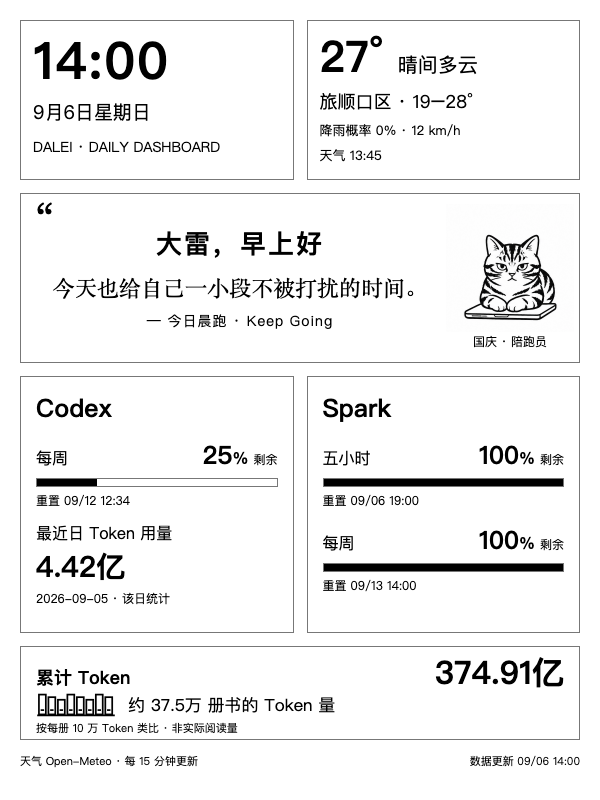
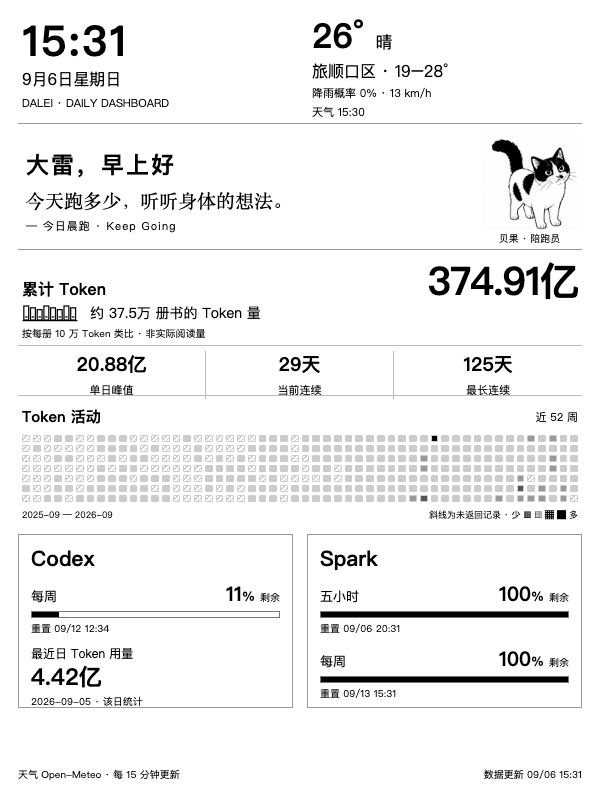
feat: add token activity heatmap and profile-inspired Kindle layout

diff --git a/backend/codex-page.js b/backend/codex-page.js
@@ -1,6 +1,7 @@
 // Server-rendered small-screen view: the screenshot never races an API fetch.
 const { readAccountData } = require('./collectors/codex');
 const labels = require('../locales/zh-CN.json').compact;
+const activity = require('../locales/zh-CN.json').activity;
 const morning = require('../locales/zh-CN.json').morning;
 const weather = require('./weather');
 const escape = value => String(value).replace(/[&<>"']/g, c => ({'&':'&amp;','<':'&lt;','>':'&gt;','"':'&quot;',"'":'&#39;'}[c]));
@@ -58,6 +59,23 @@ function weatherHtml(w) {
   if(w.unavailable) return `<strong class="temp">—°</strong><div>${escape(w.location)}</div><small>${escape(morning.unavailable)}</small>`;
   return `<strong class="temp">${n(w.temperature)}° <span>${escape(morning.conditions[String(w.code)] || morning.weather)}</span></strong><div>${escape(w.location)} · ${n(w.low)}–${n(w.high)}°</div><small>${morning.rain} ${n(w.rain)}% · ${n(w.wind)} km/h</small><small>${escape(w.stale?morning.stale:morning.weather)} ${escape(w.observedAt?.slice(11,16)||'—')}</small>`;
 }
+function activityHtml(usage, now) {
+  const summary=usage?.summary || {};
+  const valid=Array.isArray(usage?.dailyUsageBuckets)?usage.dailyUsageBuckets:[];
+  const days=new Map(valid.filter(b=>/^\d{4}-\d{2}-\d{2}$/.test(b?.startDate||'') && Number.isFinite(b.tokens) && b.tokens>=0).map(b=>[b.startDate,b.tokens]));
+  const today=new Date(now+8*3600000).toISOString().slice(0,10);
+  const end=Date.parse(today+'T00:00:00Z');
+  const start=end-363*86400000;
+  const peak=Math.max(1,...Array.from(days.values()));
+  const cells=Array.from({length:364},(_,i)=>{
+    const day=new Date(start+i*86400000).toISOString().slice(0,10);
+    const n=days.get(day);
+    const level=n===undefined?-1:n===0?0:Math.min(4,Math.max(1,Math.ceil(n/peak*4)));
+    return `<i class="heat-cell level-${level}" title="${day}: ${n===undefined?'—':n}" data-day="${day}"></i>`;
+  }).join('');
+  const metric=(name,n,suffix='')=>`<div><strong>${Number.isFinite(n)&&n>=0?escape(suffix?String(n)+suffix:tokenScale(n).total):'—'}</strong><span>${escape(name)}</span></div>`;
+  return `<div class="activity-stats">${metric(activity.peak,summary.peakDailyTokens)}${metric(activity.streak,summary.currentStreakDays,activity.days)}${metric(activity.record,summary.longestStreakDays,activity.days)}</div><div class="activity-panel"><div class="activity-head"><b>${escape(activity.title)}</b><span>${escape(activity.range)}</span></div><div class="heat-grid">${cells}</div><div class="heat-foot"><span>${new Date(start).toISOString().slice(0,7)} — ${today.slice(0,7)}</span><span>${escape(activity.missing)} · ${escape(activity.less)} <b>░ ▒ ▓ █</b> ${escape(activity.more)}</span></div></div>`;
+}
 function htmlFor(data, updatedAt, stale=false, now=Date.now(), w={missing:true}) {
   const buckets=data?.rateLimitsByLimitId || {};
   const main=buckets.codex || data?.rateLimits;
@@ -67,7 +85,9 @@ function htmlFor(data, updatedAt, stale=false, now=Date.now(), w={missing:true})
   const time=new Date(now).toLocaleTimeString('en-GB',{timeZone:'Asia/Shanghai',hour:'2-digit',minute:'2-digit',hour12:false});
   return `<!doctype html><html lang="zh-CN"><meta charset="utf-8"><style>
 *{box-sizing:border-box}html,body{margin:0;width:600px;height:800px;overflow:hidden;background:white;color:#000;font-family:"PingFang SC",sans-serif}body{padding:20px;display:flex;flex-direction:column;gap:13px}.top{display:grid;grid-template-columns:1fr 1fr;gap:13px;height:160px}.box{min-height:0;border:1px solid #777;padding:16px}.top .box{padding:12px}.clock strong{display:block;font-size:51px;line-height:1.1;letter-spacing:2px;font-variant-numeric:tabular-nums}.clock div{font-size:19px;margin-top:10px}.clock small{font-size:14px;display:block;margin-top:12px}.temp{display:block;font-size:43px;line-height:1.1;margin-bottom:9px}.temp span{font-size:20px;font-weight:400}.weather div{font-size:18px}.weather small{display:block;font-size:13px;margin-top:7px}.quote{height:170px;position:relative;text-align:center;display:flex;flex-direction:column;align-items:center;justify-content:center;padding:12px 139px 12px 19px}.quote:before{content:'“';position:absolute;left:15px;top:2px;font-family:Georgia,serif;font-size:43px}.pet-wrap{position:absolute;right:5px;top:10px;width:128px;text-align:center}.pet{width:128px;height:128px;background-image:url(/assets/guoqing-sprites.png);background-size:300% 200%;background-repeat:no-repeat}.pet-wrap span{font-size:12px;display:block;margin-top:1px}.quote h1{font-size:26px;margin:0 0 10px;letter-spacing:2px}.quote p{font-family:"Songti SC",serif;font-size:22px;line-height:1.4;margin:0;max-width:475px}.quote small{display:block;font-size:14px;letter-spacing:1px;margin-top:8px}.quotas{display:grid;grid-template-columns:1fr 1fr;gap:13px;height:257px}.quotas .box{padding:13px 15px}.quotas h2{font-size:25px;margin:0 0 11px}.quota-top{display:flex;align-items:baseline;justify-content:space-between}.quota-top b{font-size:16px;font-weight:400}.quota-top strong{font-size:25px}.quota-top small{font-size:16px}.quota-top span{font-size:12px;font-weight:400;margin-left:5px}.bar{height:9px;border:1px solid #777;margin:5px 0}.bar i{display:block;background:#000;height:100%}.reset{font-size:12px;white-space:nowrap}section{margin-bottom:13px}.daily{font-size:16px}.daily strong{display:block;font-size:29px;line-height:1.3;margin:4px 0}.tokens{height:94px;padding:8px 15px}.token-head{display:flex;align-items:baseline;justify-content:space-between}.token-head b{font-size:18px}.token-head strong{font-size:32px;line-height:1.1}.token-analogy{display:flex;align-items:center;gap:12px;margin-top:2px}.token-analogy svg{width:80px;height:25px}.token-analogy span{font-size:17px}.tokens small{display:block;font-size:11px;margin-top:3px}footer{font-size:11px;display:flex;justify-content:space-between;line-height:1.6}
-</style><div class="top"><div class="box clock"><strong>${time}</strong><div>${escape(date)}</div><small>DALEI · DAILY DASHBOARD</small></div><div class="box weather">${weatherHtml(w)}</div></div><div class="box quote"><h1>${escape(morning.greeting)}</h1><p>${escape(dailyQuote(now))}</p><small>— ${escape(morning.runTitle)}</small>${petSvg(now)}</div><div class="quotas"><div class="box"><h2>Codex</h2>${card(morning.week,windowOf(main,10080),now)}${dailyUsageCard(data?.usage)}</div><div class="box"><h2>Spark</h2>${card(morning.five,windowOf(spark,300),now)}${card(morning.week,windowOf(spark,10080),now)}</div></div>${tokenHtml(tokens)}<footer><span>${escape(morning.source)}</span><span>${escape(stale?labels.stale:labels.live)} ${updatedAt?clock(updatedAt):'—'}</span></footer></html>`;
+/* Profile-inspired e-ink layout; fixed sections sum to the 800px viewport. */
+body{padding:18px;gap:10px}.top{height:106px;flex-shrink:0;gap:16px;border-bottom:1px solid #999}.top .box{border:0;padding:0 4px}.clock strong{font-size:42px}.clock div{font-size:16px;margin-top:4px}.clock small{font-size:11px;margin-top:5px}.temp{font-size:34px;margin-bottom:5px}.temp span{font-size:17px}.weather div{font-size:16px}.weather small{font-size:11px;margin-top:3px}.quote{height:116px;flex-shrink:0;border:0;border-bottom:1px solid #999;padding:8px 124px 8px 8px;text-align:left;align-items:flex-start}.quote:before{display:none}.quote h1{font-size:23px;margin-bottom:6px}.quote p{font-size:19px;line-height:1.4}.quote small{font-size:11px;margin-top:5px}.pet-wrap{top:0;right:0;width:105px}.pet{width:96px;height:96px;margin:auto}.pet-wrap span{font-size:10px}.tokens{height:75px;flex-shrink:0;border:0;padding:0 4px}.token-head b{font-size:16px}.token-head strong{font-size:39px;letter-spacing:-1px}.token-analogy{margin-top:0}.token-analogy svg{width:56px;height:20px}.token-analogy span{font-size:14px}.tokens small{font-size:10px}.activity-stats{display:grid;grid-template-columns:repeat(3,1fr);height:51px;flex-shrink:0;border-top:1px solid #bbb;border-bottom:1px solid #bbb;padding:5px 0}.activity-stats div{text-align:center;border-right:1px solid #bbb}.activity-stats div:last-child{border:0}.activity-stats strong{display:block;font-size:19px}.activity-stats span{font-size:11px}.activity-panel{height:118px;flex-shrink:0;padding:0 4px}.activity-head,.heat-foot{display:flex;justify-content:space-between;align-items:center}.activity-head{font-size:15px;margin:0 0 8px}.activity-head span{font-size:11px}.heat-grid{display:grid;grid-template-rows:repeat(7,7px);grid-auto-flow:column;grid-template-columns:repeat(52,1fr);gap:3px}.heat-cell{display:block;border:1px solid #ccc;border-radius:1px}.level--1{background:repeating-linear-gradient(135deg,#fff 0px,#fff 2px,#ccc 2px,#ccc 3px)}.level-0{background:white}.level-1{background:#ccc}.level-2{background:#999}.level-3{background:#555}.level-4{background:#000}.heat-foot{font-size:9px;margin-top:6px}.quotas{height:174px;flex-shrink:0;gap:14px}.quotas .box{border-color:#999;padding:9px 12px}.quotas h2{font-size:21px;margin-bottom:7px}.quota-top b{font-size:13px}.quota-top strong{font-size:20px}.quota-top span{font-size:10px}.quota-top small{font-size:13px}.reset{font-size:10px}.bar{height:7px;margin:3px 0}section{margin-bottom:10px}.daily{font-size:12px}.daily strong{font-size:23px;margin:1px 0}footer{font-size:10px;margin-top:auto}
+</style><div class="top"><div class="box clock"><strong>${time}</strong><div>${escape(date)}</div><small>DALEI · DAILY DASHBOARD</small></div><div class="box weather">${weatherHtml(w)}</div></div><div class="box quote"><h1>${escape(morning.greeting)}</h1><p>${escape(dailyQuote(now))}</p><small>— ${escape(morning.runTitle)}</small>${petSvg(now)}</div>${tokenHtml(tokens)}${activityHtml(data?.usage,now)}<div class="quotas"><div class="box"><h2>Codex</h2>${card(morning.week,windowOf(main,10080),now)}${dailyUsageCard(data?.usage)}</div><div class="box"><h2>Spark</h2>${card(morning.five,windowOf(spark,300),now)}${card(morning.week,windowOf(spark,10080),now)}</div></div><footer><span>${escape(morning.source)}</span><span>${escape(stale?labels.stale:labels.live)} ${updatedAt?clock(updatedAt):'—'}</span></footer></html>`;
 }
 async function readCodex() {
   if (last && Date.now()-last.at<45000) return {...last,stale:false};
@@ -78,4 +98,4 @@ async function renderPage() {
   const [codex,w]=await Promise.all([readCodex(),weather.collect()]);
   return htmlFor(codex.data,codex.at,codex.stale,Date.now(),w);
 }
-module.exports={renderPage,htmlFor,remaining,windowOf,dailyQuote,weatherHtml,latestDaily,petSvg,tokenScale};
+module.exports={activityHtml,renderPage,htmlFor,remaining,windowOf,dailyQuote,weatherHtml,latestDaily,petSvg,tokenScale};

diff --git a/test/activity.test.js b/test/activity.test.js
@@ -1,0 +1,11 @@
+const test=require('node:test');
+const assert=require('node:assert/strict');
+const {activityHtml}=require('../backend/codex-page');
+test('activity distinguishes missing days, real zero and peak usage over 52 weeks',()=>{
+ const html=activityHtml({summary:{currentStreakDays:0},dailyUsageBuckets:[{startDate:'2026-09-05',tokens:0},{startDate:'2026-09-06',tokens:100},{startDate:'2026-09-04',tokens:-1}]},Date.parse('2026-09-06T04:00:00Z'));
+ assert.equal((html.match(/data-day=/g)||[]).length,364);
+ assert.match(html,/class="heat-cell level-0" title="2026-09-05: 0"/);
+ assert.match(html,/class="heat-cell level-4" title="2026-09-06: 100"/);
+ assert.match(html,/class="heat-cell level--1" title="2026-09-04: —"/);
+ assert.match(html,/>0天</);
+});

diff --git a/README.md b/README.md
@@ -22,6 +22,8 @@
 
 ## 已经回到桌面上了
 
+以下两张为上一版布局的实拍；新版统计布局见下方「一眼看见今天」。
+
 <div align="center">
 <img src="https://raw.githubusercontent.com/paul010/kindledalei2025/main/docs/images/kindle-in-use.jpg?v=privacy1" width="520" alt="Kindle 第八代实机照片：显示旅顺口天气、国庆猫咪、晨跑鼓励及 Codex 用量" />
 </div>
@@ -39,7 +41,7 @@
 ## 一眼看见今天
 
 <div align="center">
-<img src="https://raw.githubusercontent.com/paul010/kindledalei2025/main/docs/images/dashboard.png?v=privacy1" width="420" alt="大雷的 Kindle 看板：时间、旅顺天气、晨跑鼓励、猫咪、Codex 和 Spark 额度，以及累计 Token 类比" />
+<img src="https://raw.githubusercontent.com/paul010/kindledalei2025/main/docs/images/dashboard.png?v=activity-v2" width="420" alt="大雷的 Kindle 看板：时间、旅顺天气、晨跑鼓励、猫咪、Codex 和 Spark 额度，以及累计 Token 类比" />
 </div>
 
 > 上图为实际运行程序生成的 **600 × 800 PNG**，不是设备实拍，也不是概念稿。截图中的天气和用量是抓取时的快照，不代表此刻的数据。
@@ -51,7 +53,8 @@
 | 中间 | 「大雷，早上好」和晨跑鼓励 | 每 5 分钟轮换一句 |
 | 文案右侧 | 三只猫的专属黑白造型 | 每分钟轮换，下一次出场更换动作 |
 | 下方两张卡片 | Codex 每周余额、最近日 Token、Spark 额度 | 约每分钟更新 |
-| 最下方 | 累计 Token 与书本数量类比 | 随账户统计更新 |
+| 中部大数字 | 累计 Token 与书本数量类比 | 随账户统计更新 |
+| 统计与热力图 | 单日峰值、当前及最长连续天数、近 52 周活动 | 按真实每日用量绘制，斜线表示未返回记录 |
 
 ### 数字也可以说人话
 
@@ -76,7 +79,7 @@
 
 ![国庆、贝果与点点大哥的三帧轮换预览](https://raw.githubusercontent.com/paul010/kindledalei2025/main/docs/images/cat-lineup.png?v=privacy1)
 
-*上图把三个轮换时刻并排展示；Kindle 上每次显示一位。三个画面共用一次抓取的数据，用于查看造型和布局。*
+*上图把三个轮换时刻并排展示；Kindle 上每次显示一位。三个画面共用一次抓取的数据，用于查看造型和布局，采用此前的布局。*
 
 <details>
 <summary>展开看三只猫的完整造型</summary>
@@ -125,7 +128,7 @@ flowchart LR
 - 主账户未返回五小时窗口时，不推算余额；这个位置显示**最近有记录的一天**的 Token 用量，并标明日期。
 - 最近日用量不一定是今天的数据，累计 Token 也不等于剩余额度。
 - 获取失败时标注旧数据或不可用，不把缺失数据当成 0。
-- 本地实现完成了 37 项自动化测试，覆盖额度、天气、轮换与数据换算等逻辑；这不等于所有 Kindle 型号都已验证。
+- 本地实现完成了 38 项自动化测试，覆盖额度、天气、轮换与数据换算等逻辑；这不等于所有 Kindle 型号都已验证。
 
 ## 安装与运行
 
